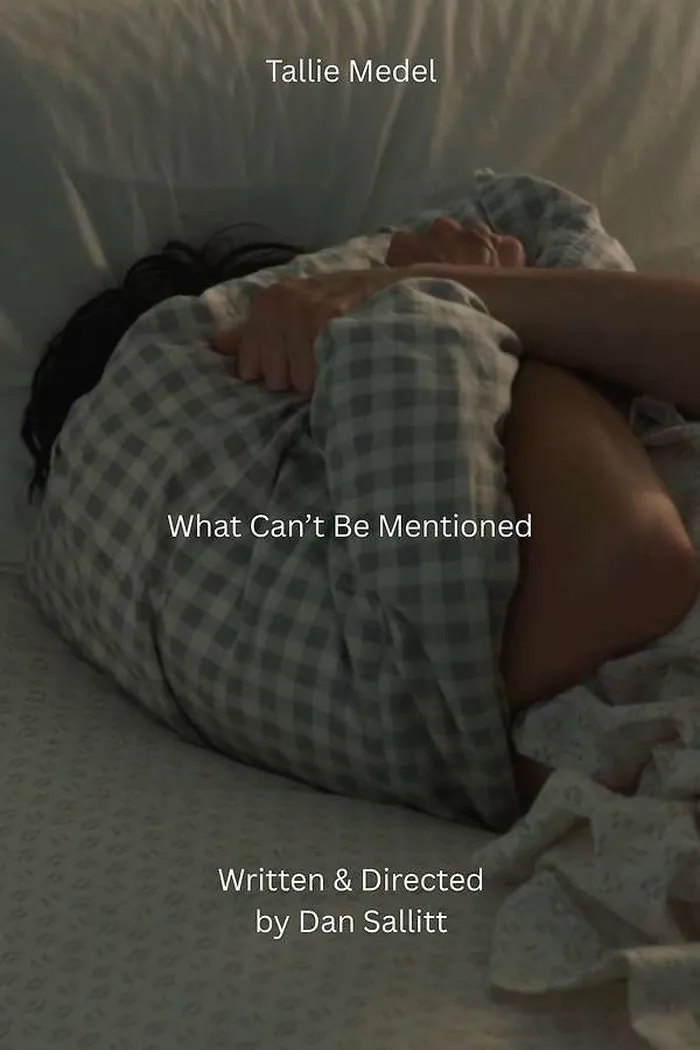
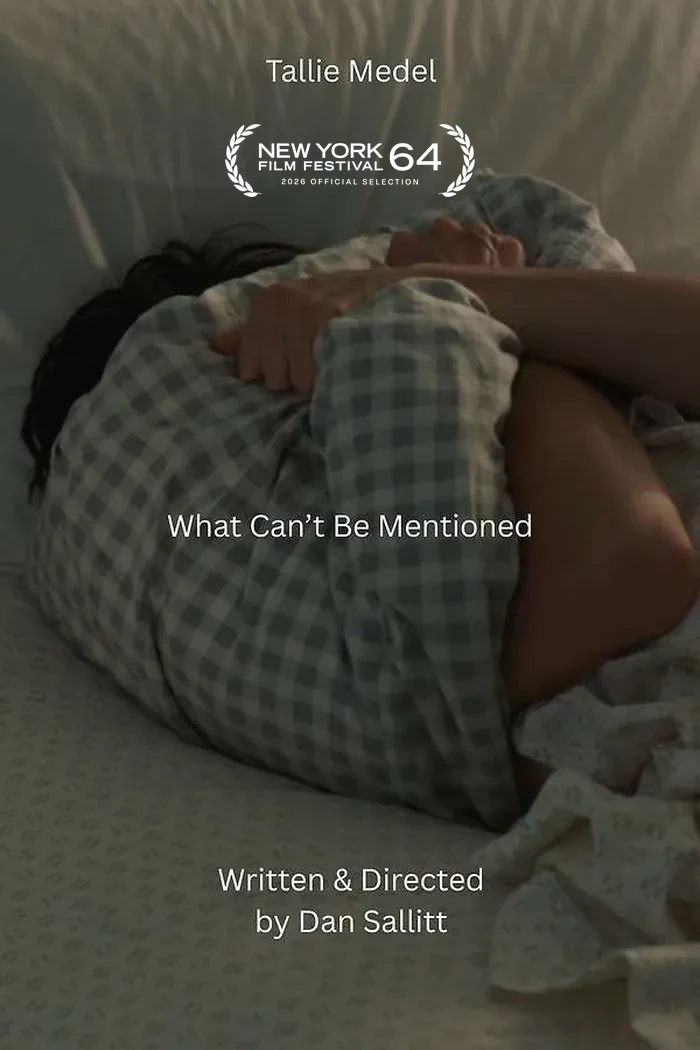
Selected Sound Work: NYFF64 Official Selection laurel on What Can't Be Mentioned poster
Claude-Session: https://claude.ai/code/session_01NhEa6YBsPsxKBzgKZZ1JGK

Changed region(s): [[0.3, 0.1219, 0.69, 0.1829]]

diff --git a/index.html b/index.html
@@ -226,7 +226,7 @@
         <!-- TODO: confirm Hunter's credit on each; add links if there are trailers -->
         <div class="posters row-grid">
           <figure class="poster"><div class="art"><img src="assets/posters/company-of-thieves.webp" alt="Poster for A Company of Thieves" width="700" height="1050" loading="lazy"></div><figcaption><span class="t">A Company of Thieves</span><span class="meta rule-top"><span class="caps">Production Sound</span><span class="year">2026</span></span></figcaption></figure>
-          <figure class="poster"><div class="art"><img src="assets/posters/what-cant-be-mentioned.webp" alt="Poster for What Can’t Be Mentioned" width="700" height="1050" loading="lazy"></div><figcaption><span class="t">What Can’t Be Mentioned</span><span class="meta rule-top"><span class="caps">Additional Sound Mixer</span><span class="year">2026</span></span></figcaption></figure>
+          <figure class="poster"><div class="art"><img src="assets/posters/what-cant-be-mentioned.webp?v=2" alt="Poster for What Can’t Be Mentioned" width="700" height="1050" loading="lazy"></div><figcaption><span class="t">What Can’t Be Mentioned</span><span class="meta rule-top"><span class="caps">Additional Sound Mixer</span><span class="year">2026</span></span></figcaption></figure>
           <figure class="poster"><div class="art"><img src="assets/posters/cub.webp" alt="Poster for Cub" width="700" height="1050" loading="lazy"></div><figcaption><span class="t">Cub</span><span class="meta rule-top"><span class="caps">Production Sound</span><span class="year">2026</span></span></figcaption></figure>
           <figure class="poster"><div class="art"><img src="assets/posters/brooklyn-coffee-shop.webp" alt="Title card for Brooklyn Coffee Shop" width="700" height="1050" loading="lazy"></div><figcaption><span class="t">Brooklyn Coffee Shop</span><span class="meta rule-top"><span class="caps">Production Sound</span><span class="year">2025</span></span></figcaption></figure>
           <figure class="poster"><div class="art"><img src="assets/posters/actual-nobodies.webp" alt="Poster for Actual Nobodies" width="700" height="1037" loading="lazy"></div><figcaption><span class="t">Actual Nobodies</span><span class="meta rule-top"><span class="caps">Production Sound</span><span class="year">2027</span></span></figcaption></figure>
